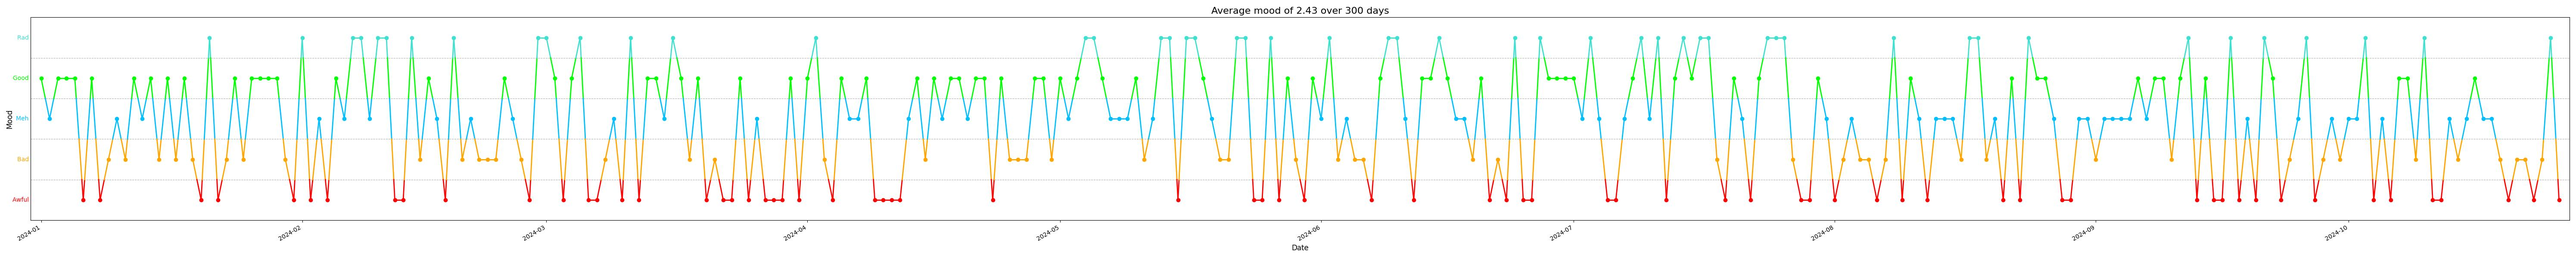
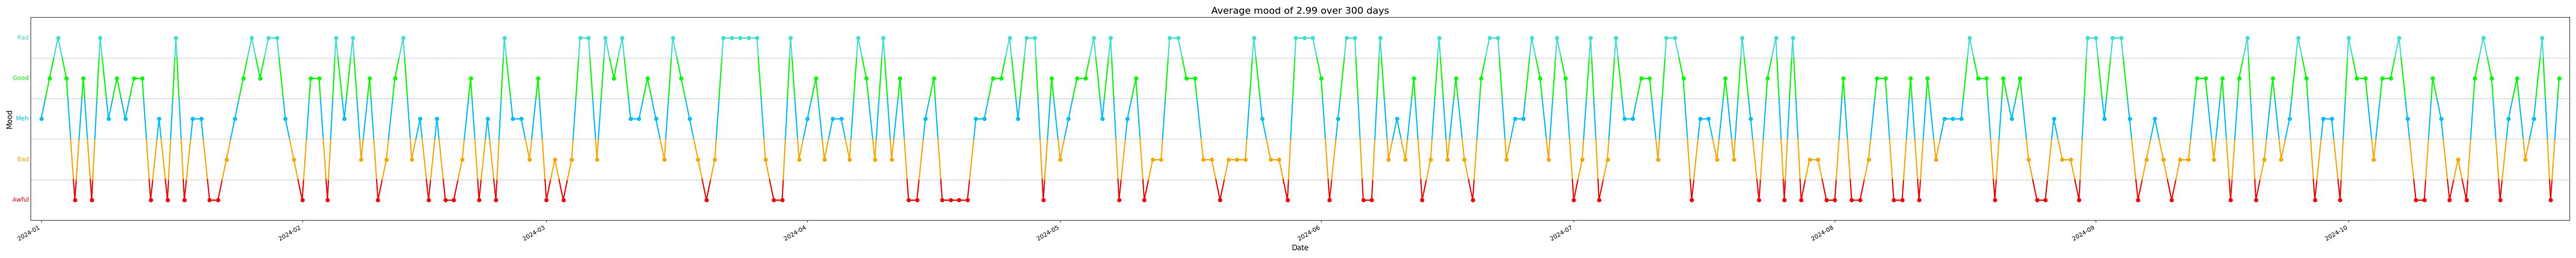
Fixed average mood displaying lower than it should have

Changed region(s): [[0.0, 0.12, 0.9953, 0.78], [0.8087, 0.12, 0.8398, 0.18], [0.2799, 0.12, 0.311, 0.18]]

diff --git a/daylio.py b/daylio.py
@@ -65,7 +65,7 @@ for mood, color in mood_colors.items():
     mask = data_sorted['mood'] == mood
     ax.plot(data_sorted.loc[mask, 'full_date'], data_sorted.loc[mask, 'mood_value'], marker='o', linestyle='None', color=color)
 
-ax.set_title(f'Average mood of {round(data["mood_value"].mean(),2)} over {len(data)} days', fontsize=16)
+ax.set_title(f'Average mood of {round(data["mood_value"].mean(),2) + 0.5} over {len(data)} days', fontsize=16)
 ax.set_xlabel('Date', fontsize=12)
 ax.set_ylabel('Mood', fontsize=12, labelpad=25)
 
